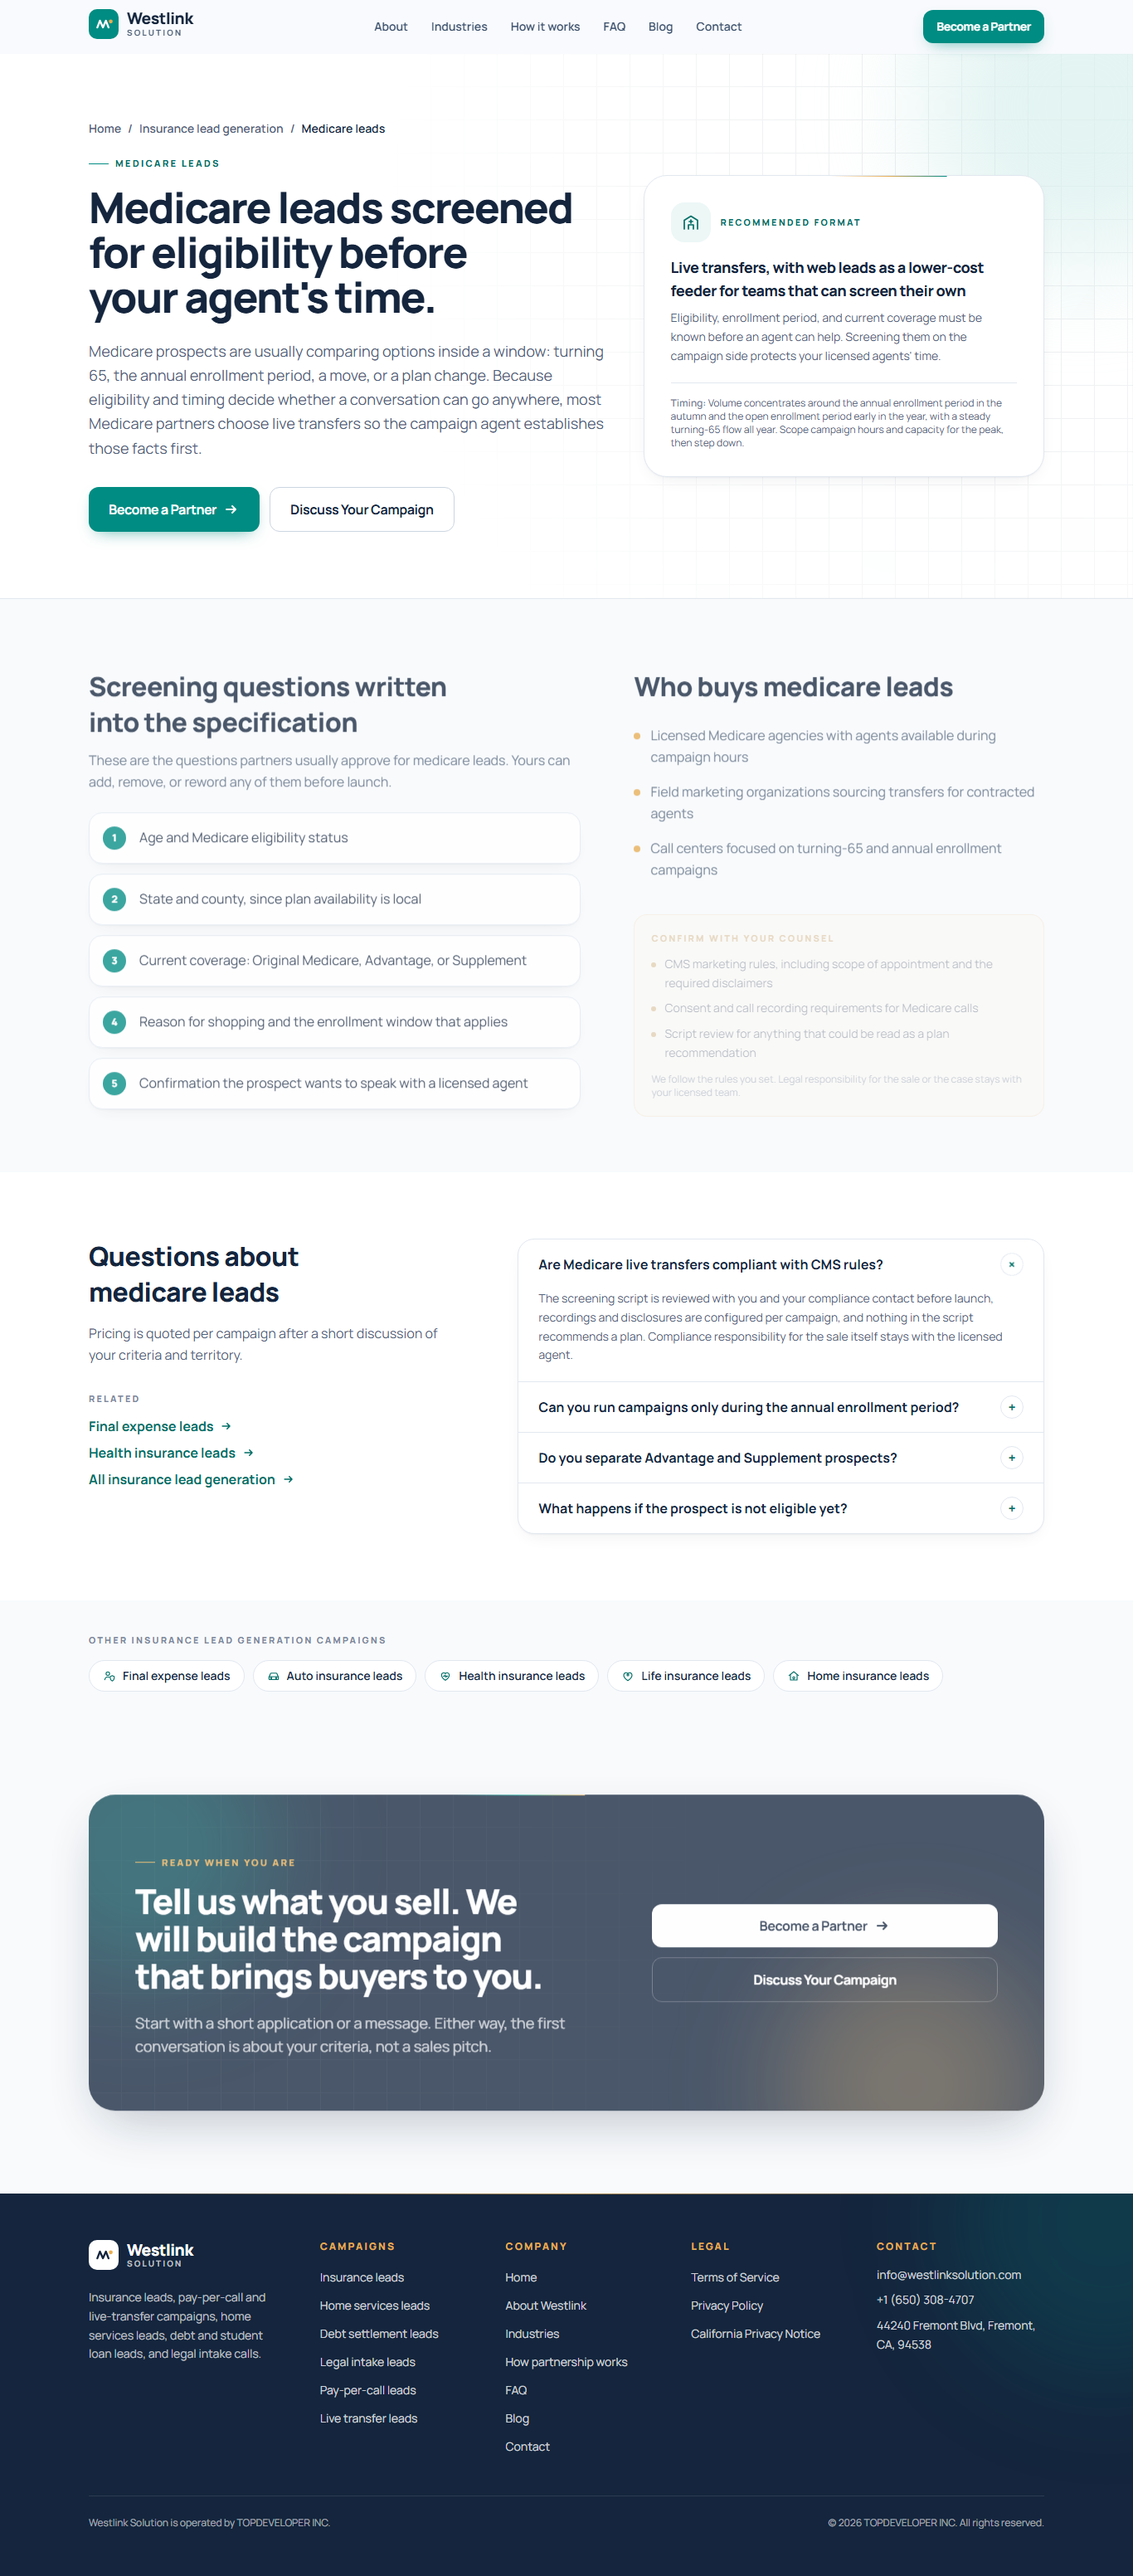
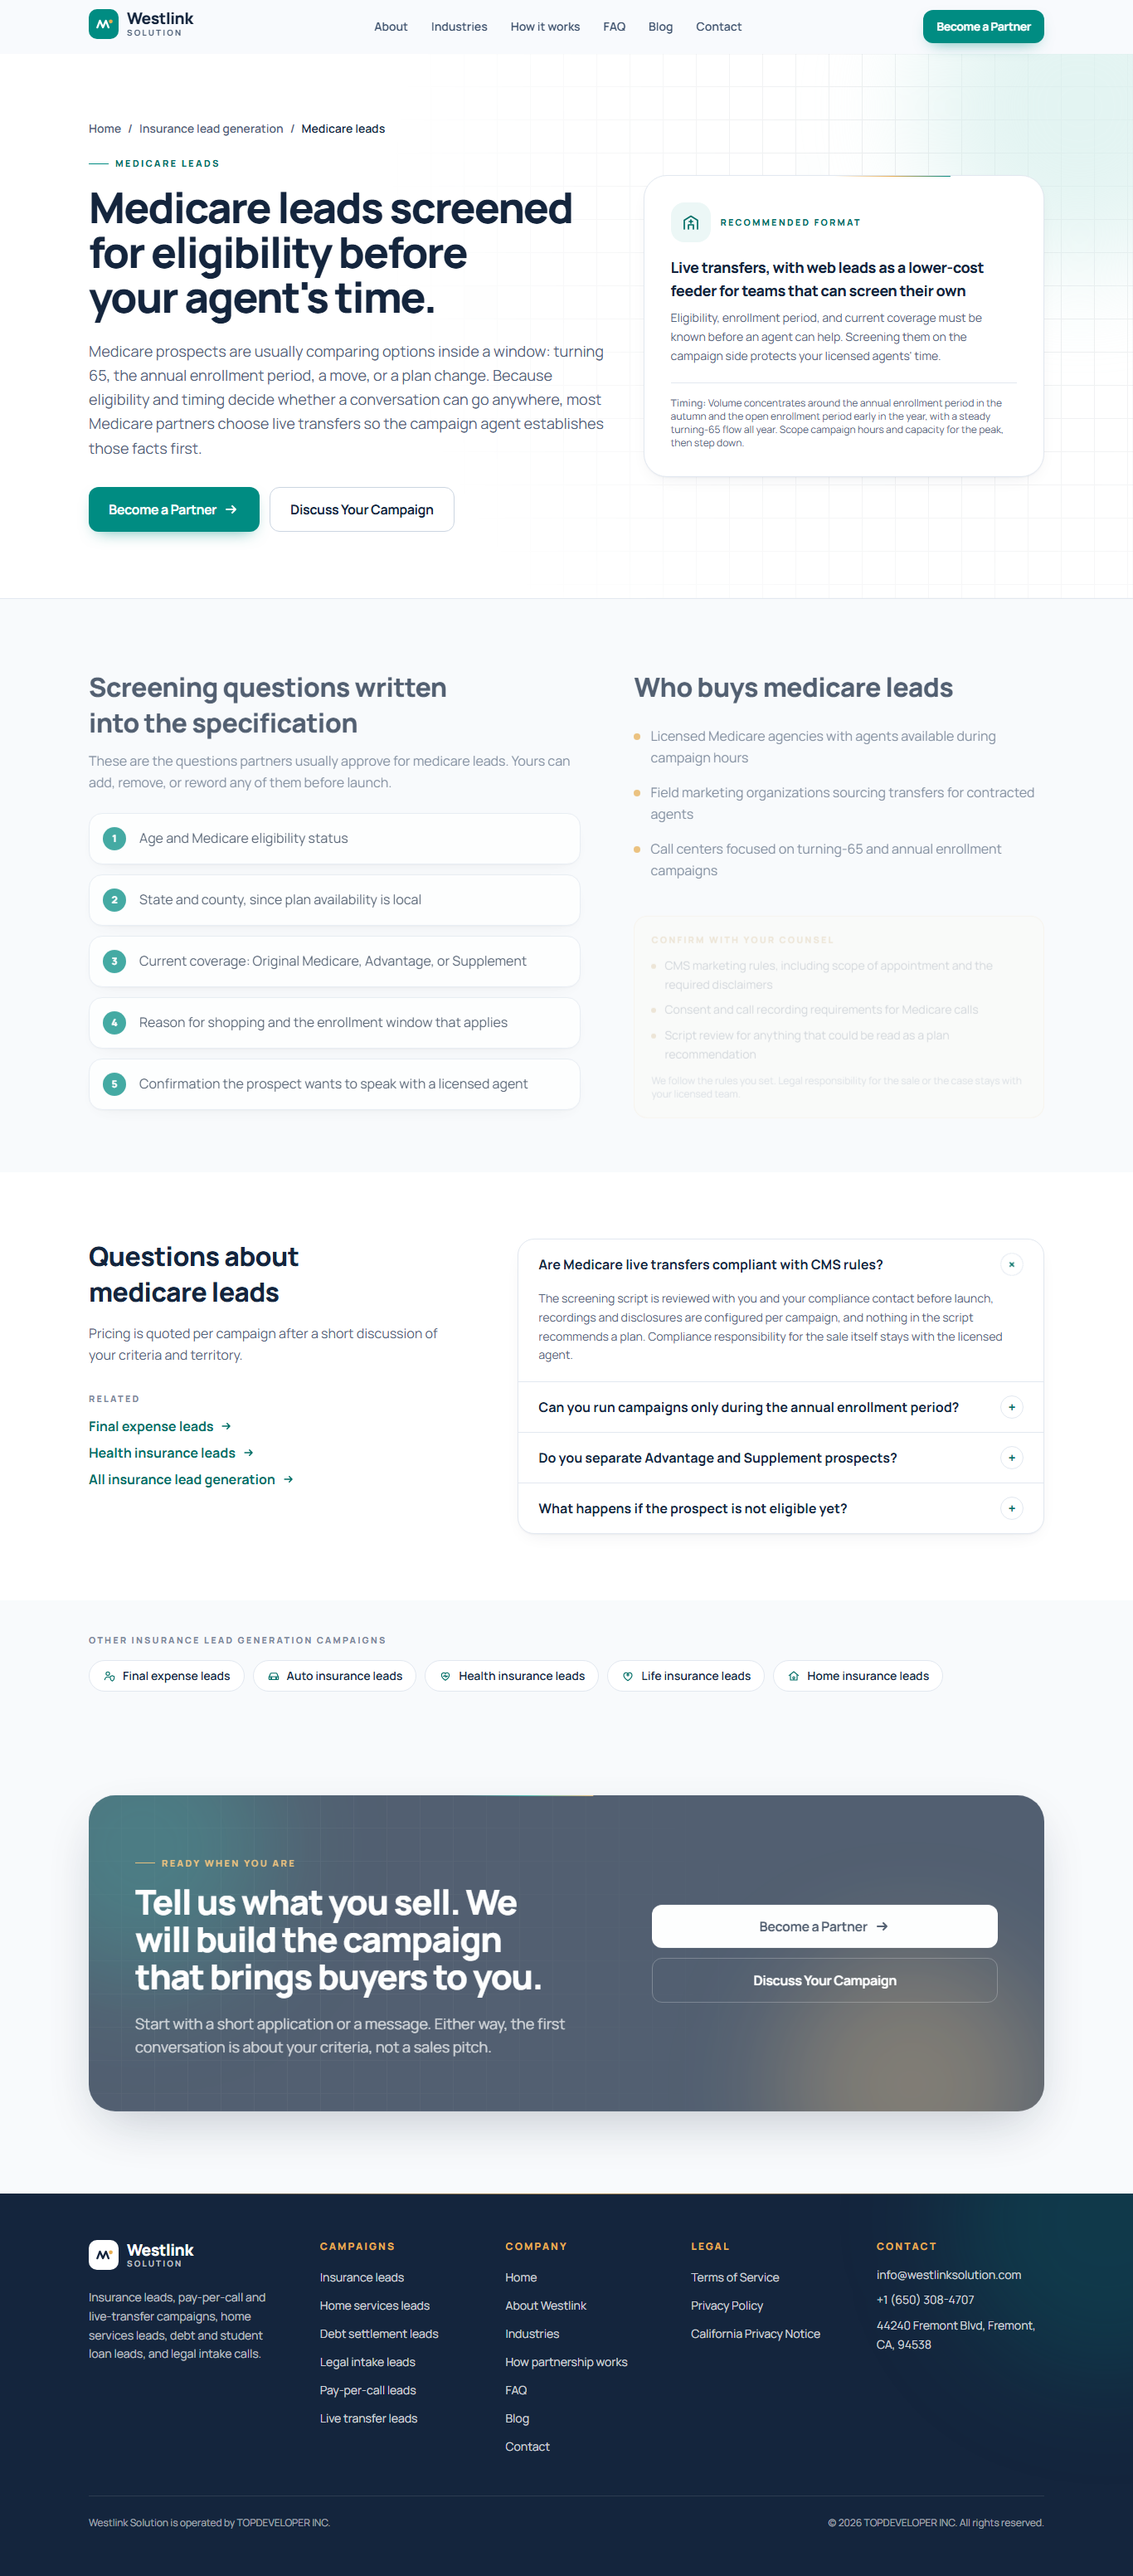
Return a true 404 for unknown URLs via Proxy instead of a streamed 200
Unknown slugs under dynamic routes streamed the not-found page with a 200
status on first request (Cache Components commits the status before
notFound() runs), which search engines report as soft 404s. A Proxy checks
known routes before rendering and rewrites unknown paths to a 404.

diff --git a/src/proxy.ts b/src/proxy.ts
@@ -1,0 +1,47 @@
+import { NextResponse } from "next/server";
+import type { NextRequest } from "next/server";
+import { blogSlugs } from "@/content/blog-slugs";
+import { landingPages } from "@/content/landing";
+import { products } from "@/content/products";
+
+/**
+ * Real 404s for unknown URLs.
+ *
+ * With Cache Components, the first request for an unknown slug under a dynamic
+ * route ("/[slug]", "/[slug]/[product]", "/blog/[slug]") starts streaming the
+ * static shell before the page calls notFound(), so the status is already 200.
+ * Next only injects a noindex tag in that case, which search engines report as
+ * a soft 404. The Next.js docs recommend a request-time check in Proxy, which
+ * runs before rendering. Unknown paths are rewritten to a path no route
+ * matches, so Next serves the not-found page with a true 404 status.
+ */
+
+const STATIC_TOP_LEVEL = new Set(["", "blog", "terms", "privacy", "california-privacy", "opengraph-image", "apple-icon", "icon", "manifest.webmanifest", "_not-found"]);
+const LANDING = new Set(landingPages.map((p) => p.slug));
+const PRODUCTS = new Set(products.map((p) => `${p.parent}/${p.slug}`));
+const BLOG = new Set<string>(blogSlugs);
+const NOT_FOUND_PATH = "/__not-found/__/__";
+
+function isKnown(pathname: string): boolean {
+  const segments = pathname.replace(/^\/+|\/+$/g, "").split("/").filter(Boolean);
+  if (segments.length === 0) return true;
+  const [first, second] = segments;
+  if (segments.length === 1) return STATIC_TOP_LEVEL.has(first) || LANDING.has(first);
+  if (segments.length === 2) {
+    if (first === "blog") return BLOG.has(second);
+    if (LANDING.has(first)) return PRODUCTS.has(`${first}/${second}`);
+    // Generated metadata routes such as /opengraph-image/<hash> or /icon/<id>.
+    return first === "opengraph-image" || first === "apple-icon" || first === "icon";
+  }
+  return false;
+}
+
+export function proxy(request: NextRequest) {
+  if (isKnown(request.nextUrl.pathname)) return NextResponse.next();
+  return NextResponse.rewrite(new URL(NOT_FOUND_PATH, request.url), { status: 404 });
+}
+
+export const config = {
+  // Pages only: skip API routes, Next internals, and any path with a file extension.
+  matcher: ["/((?!api/|_next/|.*\\..*).*)"],
+};

diff --git a/src/content/blog.tsx b/src/content/blog.tsx
@@ -1,6 +1,7 @@
 import type { ReactNode } from "react";
 import Link from "next/link";
 import { InlineCta } from "@/components/blog/InlineCta";
+import { blogSlugs } from "./blog-slugs";
 
 export interface BlogPost {
   slug: string;
@@ -919,6 +920,15 @@ export const posts: BlogPost[] = [
     ),
   },
 ];
+
+// Fail the build if the proxy's slug list drifts from the posts above.
+{
+  const expected = [...blogSlugs].sort().join(",");
+  const actual = posts.map((p) => p.slug).sort().join(",");
+  if (expected !== actual) {
+    throw new Error(`src/content/blog-slugs.ts is out of date. Posts: ${actual}`);
+  }
+}
 
 export function getPost(slug: string): BlogPost | undefined {
   return posts.find((p) => p.slug === slug);

diff --git a/src/content/blog-slugs.ts b/src/content/blog-slugs.ts
@@ -1,0 +1,13 @@
+/**
+ * Slugs of published blog posts, kept free of JSX so `src/proxy.ts` can import
+ * it without bundling page code. `src/content/blog.tsx` checks at build time
+ * that this list matches its posts, so a missing entry fails the build.
+ */
+export const blogSlugs = [
+  "how-to-vet-a-lead-generation-company",
+  "how-much-can-you-pay-per-lead",
+  "tcpa-consent-for-lead-buyers-2026",
+  "pay-per-call-vs-live-transfers-vs-web-leads",
+  "exclusive-vs-shared-leads",
+  "speed-to-lead-first-five-minutes",
+] as const;

diff --git a/VERIFICATION.md b/VERIFICATION.md
@@ -139,6 +139,11 @@ Implemented with the `animated-component-libraries` skill pattern: Magic UI / Re
 - A web search on 2026-11-07 returned no pages from westlinksolution.com, so an IndexNow key file was added at the site root to notify Bing and other IndexNow engines of new URLs.
 - Checks: new posts pass at 1366px and 375px (200, one H1, meta description within snippet length, no overflow, no console errors), the in-article button opens the application, all internal links resolve, the blog index lists six posts, the sitemap lists 31 URLs. Landing, navigation, browser (54 / 55, expected noindex), toast (14 / 14), and responsive (8 / 8) suites pass on the production build.
 
+## Update: true 404 status for unknown URLs (2026-11-07)
+- Found on the live site: the first request for an unknown URL under a dynamic route (for example `/zz-123`, `/blog/zz-123`, `/insurance-leads/zz-123`) returned 200 with the not-found page and `noindex`, and only later requests returned 404. With Cache Components the static shell starts streaming before `notFound()` runs, so the status is fixed at 200 (documented in the bundled Next.js docs under streaming and status codes). Search engines report these as soft 404s.
+- Fix, following the docs' recommendation: `src/proxy.ts` checks the path against the known landing, product, blog, and static routes before rendering and rewrites unknown paths to an unmatched route with status 404. The blog slug list lives in `src/content/blog-slugs.ts` so the proxy does not bundle page code, and `blog.tsx` throws at build time if the list drifts from the posts.
+- Checks on the production build: five unknown paths return 404 with the "Page not found" page; nineteen known pages, metadata images, sitemap, robots, manifest, verification and key files, and the health API return 200. Post, landing, navigation, browser (54 / 55, expected noindex), toast (14 / 14), and responsive (8 / 8) suites pass.
+
 ## Known limitations
 - Rate limiting is in-memory per server instance. Multi-instance or serverless deployments need a shared store.
 - SQLite is for local use; production should use PostgreSQL (`DATABASE_URL=postgres://…`), which is implemented but untested here.
